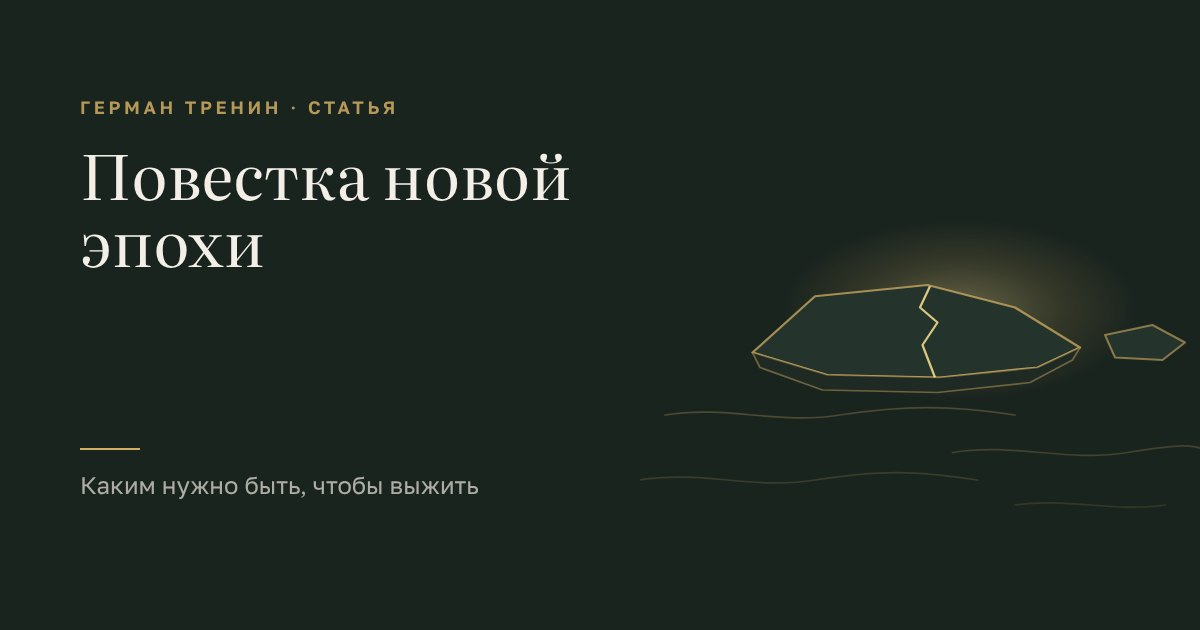
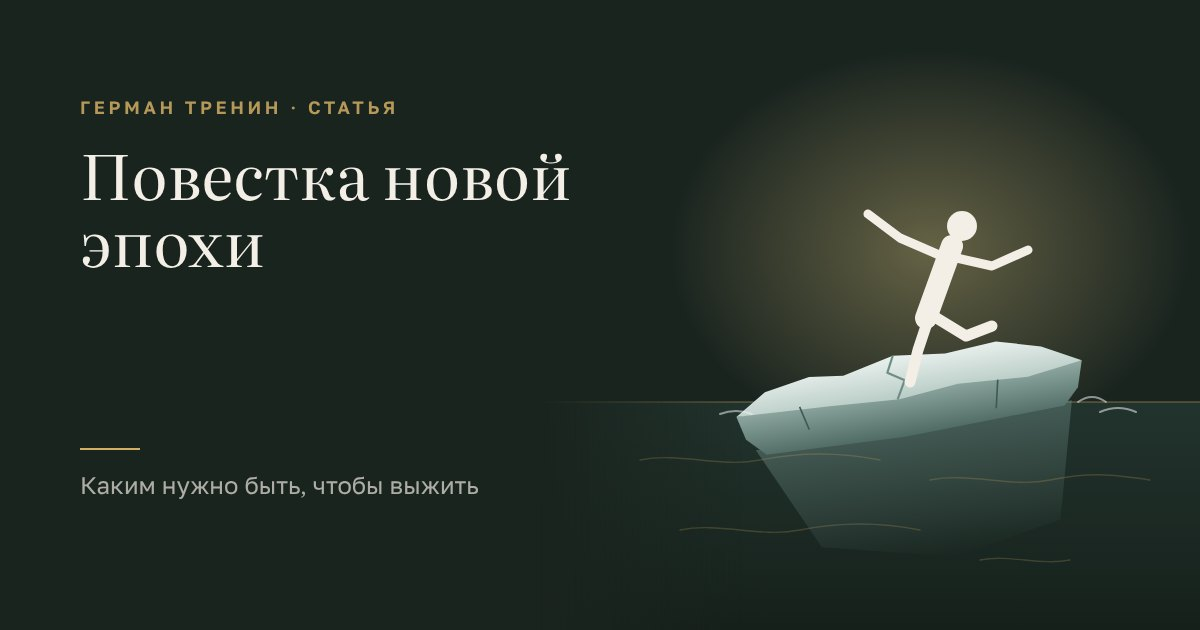
Статья «Повестка новой эпохи»: новая обложка — человек балансирует на льдине
Claude-Session: https://claude.ai/code/session_01SG7BPPjAekuJbSDnnHnoqM

Changed region(s): [[0.555, 0.181, 1.0, 0.8444]]

diff --git a/stati/povestka-novoj-epohi.html b/stati/povestka-novoj-epohi.html
@@ -55,7 +55,7 @@
       <p class="article-meta"><time datetime="2026-11-13">13 ноября 2026</time> · 3 минуты чтения · Герман Тренин</p>
 
       <figure class="article-cover">
-        <img src="img/povestka-novoj-epohi.webp" alt="Расколотая льдина на тёмной воде, рядом уплывает откол" width="1200" height="630">
+        <img src="img/povestka-novoj-epohi.webp" alt="Человек теряет равновесие на накренившейся льдине" width="1200" height="630">
       </figure>
 
       <p class="intro">Из каждого утюга&nbsp;— смена эпохи. Эра Водолея, новое измерение. Кто-то ждёт инопланетян, кто-то апокалипсиса. А мир уже перешёл на другую ветку реальности. Без знамений и без объявления.</p>

diff --git a/stati/index.html b/stati/index.html
@@ -53,7 +53,7 @@
       <div class="posts">
         <article class="post-card">
           <a href="povestka-novoj-epohi.html">
-            <img src="img/povestka-novoj-epohi.webp" alt="Расколотая льдина на тёмной воде, рядом уплывает откол" width="1200" height="630" loading="lazy">
+            <img src="img/povestka-novoj-epohi.webp" alt="Человек теряет равновесие на накренившейся льдине" width="1200" height="630" loading="lazy">
             <div class="post-card-body">
               <time datetime="2026-11-13">13 ноября 2026</time>
               <h2>Повестка новой эпохи: каким нужно быть, чтобы выжить</h2>
